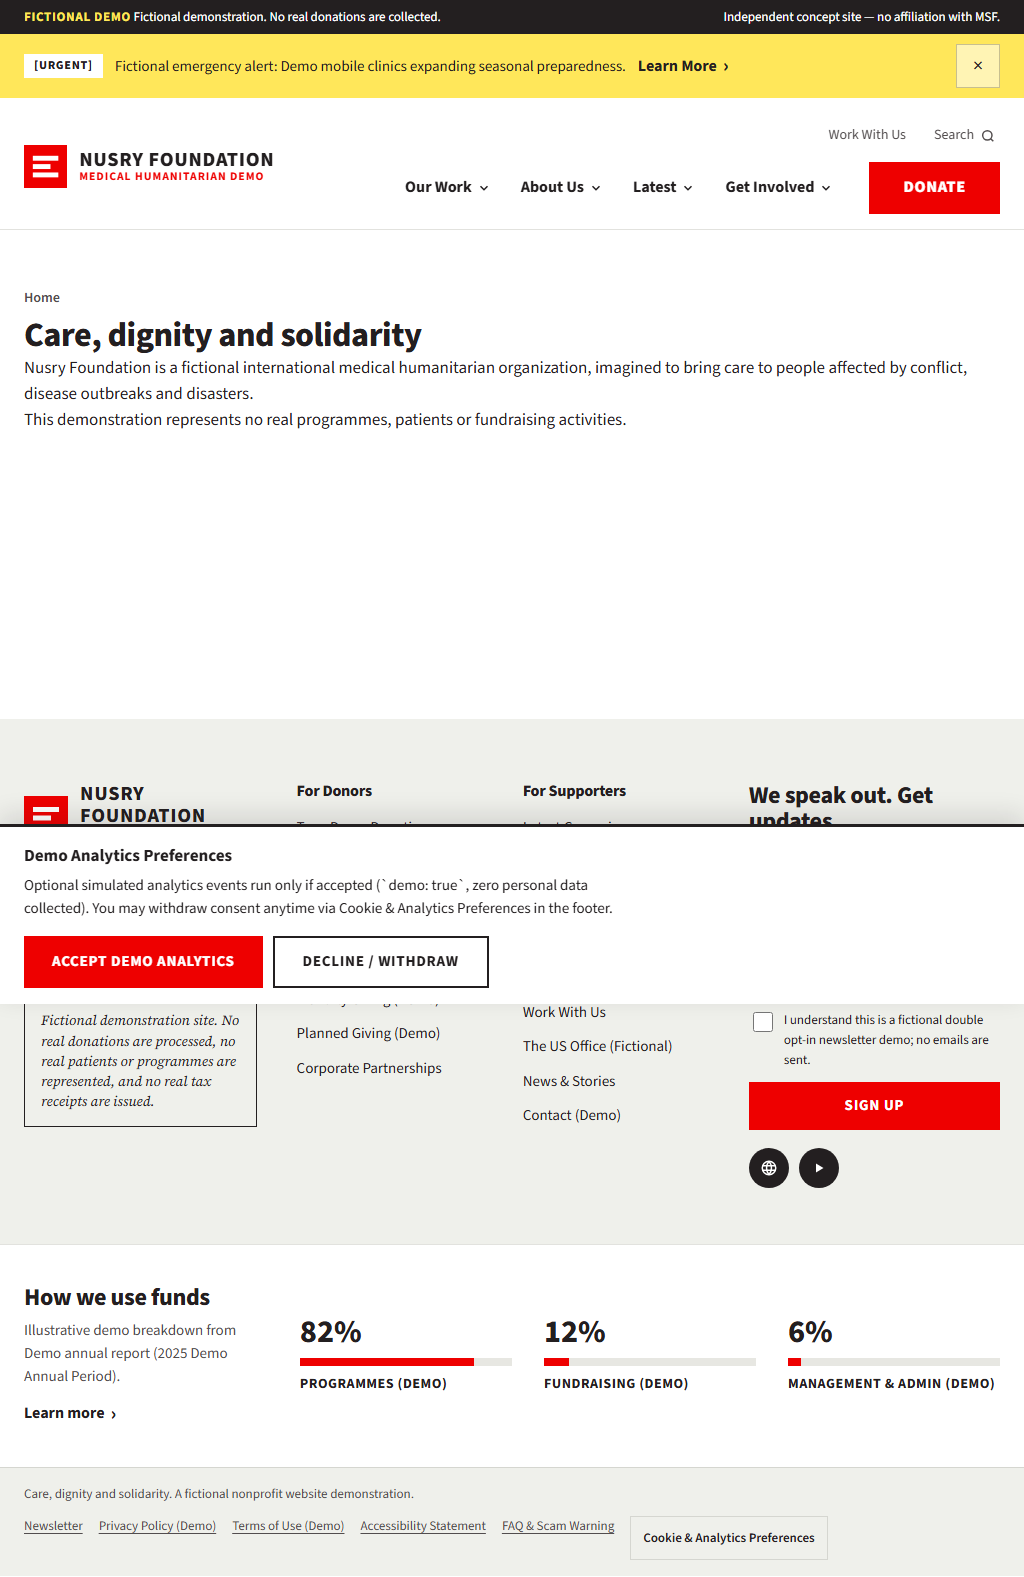
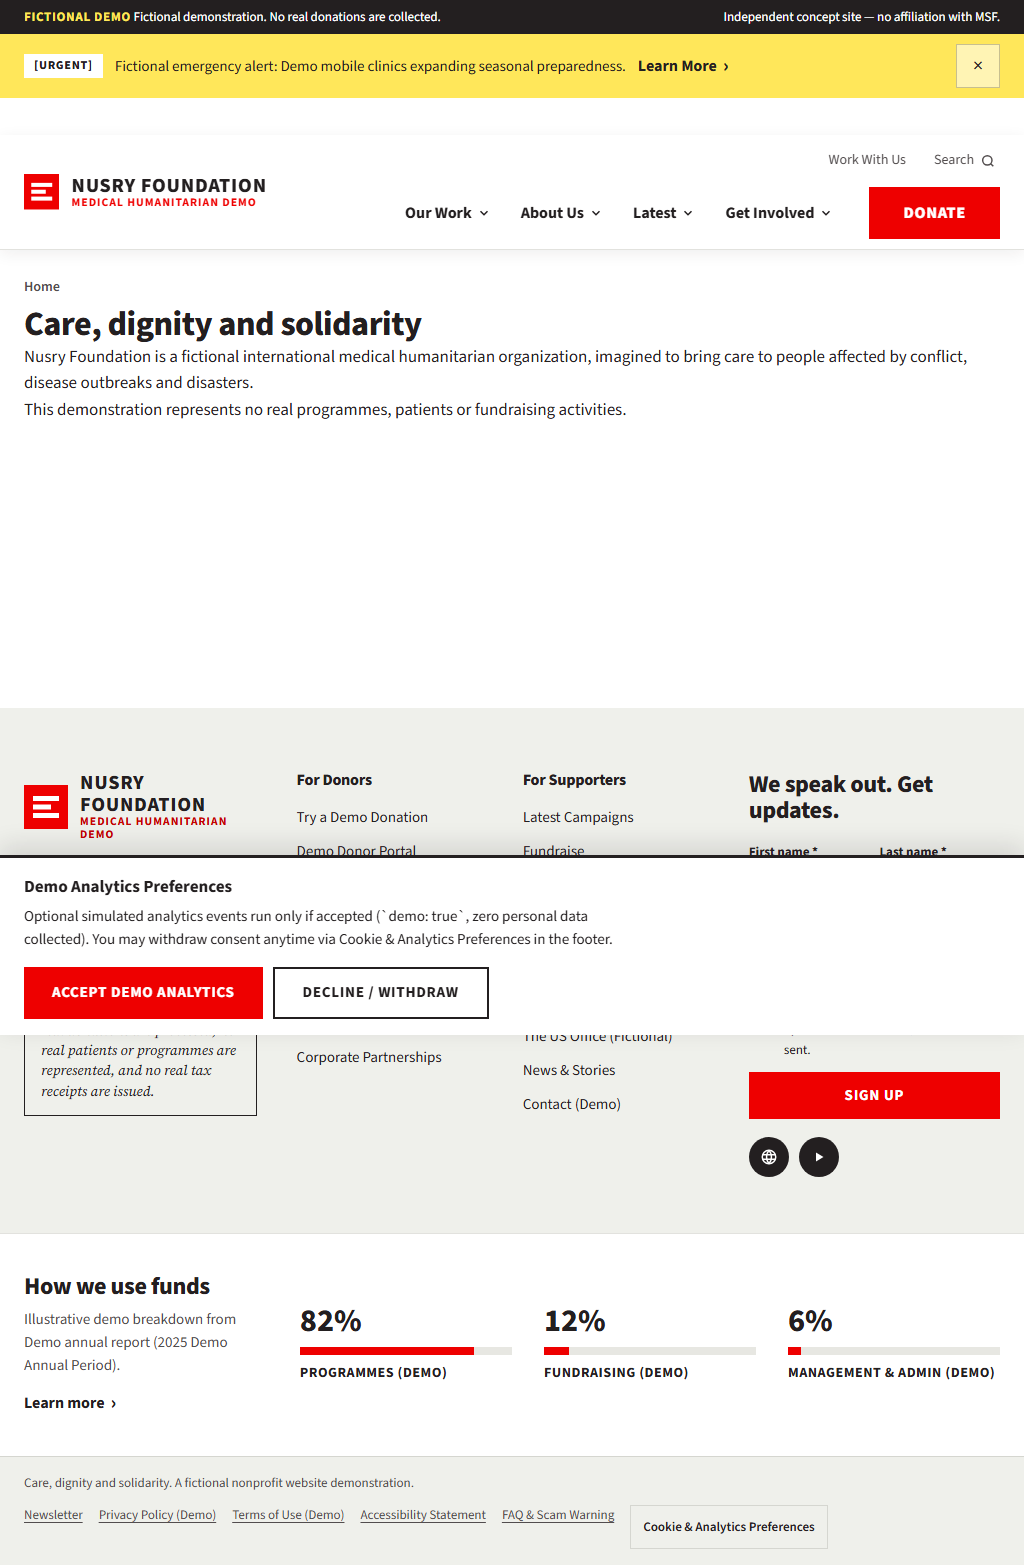
docs(phase-8): add editor guide, QA/bug template, launch checklist, print check and handoff summary

diff --git a/tests/e2e/hardening.spec.js b/tests/e2e/hardening.spec.js
@@ -119,3 +119,29 @@ test('320px reflow, 200% text resize, reduced motion and heading order pass acro
     });
   }
 });
+
+test('printed article view hides site chrome cleanly and retains article body', async ({ page }) => {
+  await page.goto('/stories/mobile-clinics-expand-maternal-care-across-valeria-republic');
+  await page.emulateMedia({ media: 'print' });
+
+  const printCheck = await page.evaluate(() => {
+    const header = document.querySelector('.site-header');
+    const footer = document.querySelector('.site-footer');
+    const consent = document.querySelector('.consent-banner');
+    const h1 = document.querySelector('h1');
+    const prose = document.querySelector('.prose-column, article');
+    return {
+      headerDisplay: header ? getComputedStyle(header).display : 'none',
+      footerDisplay: footer ? getComputedStyle(footer).display : 'none',
+      consentDisplay: consent ? getComputedStyle(consent).display : 'none',
+      h1Display: h1 ? getComputedStyle(h1).display : 'none',
+      hasBodyText: Boolean(prose && prose.textContent.trim().length > 40),
+    };
+  });
+
+  expect(printCheck.headerDisplay).toBe('none');
+  expect(printCheck.footerDisplay).toBe('none');
+  expect(printCheck.consentDisplay).toBe('none');
+  expect(printCheck.h1Display).not.toBe('none');
+  expect(printCheck.hasBodyText).toBe(true);
+});

diff --git a/web/themes/custom/nusry/src/styles/print.css b/web/themes/custom/nusry/src/styles/print.css
@@ -1,4 +1,5 @@
 @media print {
+
   .demo-notice,
   .urgent-banner,
   .site-header,
@@ -9,7 +10,8 @@
   .share-bar,
   .donate-prompt,
   .filter-bar,
-  .pagination {
+  .pagination,
+  .consent-banner {
     display: none !important;
   }
 

diff --git a/docs/phase-8-summary.md b/docs/phase-8-summary.md
@@ -1,0 +1,31 @@
+# Phase 8 Summary — Final Handoff, Verification Matrix & Readiness Review
+
+All 8 implementation phases of the fictional **Nusry Foundation** Drupal 11 demonstration are complete on branch `docs/phase-8-handoff`, with no live payment, email, or external hosting side effects.
+
+## 1. Documentation & Operational Deliverables
+- **Architecture & Content Model**: [architecture.md](file:///c:/Users/muhfe/Desktop/Nusry%20Foundation/docs/architecture.md), [content-model.md](file:///c:/Users/muhfe/Desktop/Nusry%20Foundation/docs/content-model.md), [phase-plan.md](file:///c:/Users/muhfe/Desktop/Nusry%20Foundation/docs/phase-plan.md)
+- **Design System & Asset Provenance**: [design-spec.md](file:///c:/Users/muhfe/Desktop/Nusry%20Foundation/docs/design-spec.md), [design-tokens.json](file:///c:/Users/muhfe/Desktop/Nusry%20Foundation/docs/design-tokens.json), [design-contract.md](file:///c:/Users/muhfe/Desktop/Nusry%20Foundation/docs/design-contract.md), [wireframes.md](file:///c:/Users/muhfe/Desktop/Nusry%20Foundation/docs/wireframes.md), [asset-register.md](file:///c:/Users/muhfe/Desktop/Nusry%20Foundation/docs/asset-register.md)
+- **Phase Summaries**: [phase-1-summary.md](file:///c:/Users/muhfe/Desktop/Nusry%20Foundation/docs/phase-1-summary.md) through [phase-7-summary.md](file:///c:/Users/muhfe/Desktop/Nusry%20Foundation/docs/phase-7-summary.md)
+- **Phase 8 Hand-off Pack**:
+  - [editor-guide.md](file:///c:/Users/muhfe/Desktop/Nusry%20Foundation/docs/editor-guide.md) (editorial roles, `Draft` -> `Needs review` -> `Scheduled` -> `Published`, stories/pages/alerts/campaigns, media accessibility rules)
+  - [security-and-ops.md](file:///c:/Users/muhfe/Desktop/Nusry%20Foundation/docs/security-and-ops.md) (security headers, Report-Only CSP, backup/restore rehearsal, deployment/rollback, availability monitoring, retention)
+  - [qa-checklist-and-bug-template.md](file:///c:/Users/muhfe/Desktop/Nusry%20Foundation/docs/qa-checklist-and-bug-template.md) & [.github/ISSUE_TEMPLATE/bug_report.md](file:///c:/Users/muhfe/Desktop/Nusry%20Foundation/.github/ISSUE_TEMPLATE/bug_report.md)
+  - [launch-checklist.md](file:///c:/Users/muhfe/Desktop/Nusry%20Foundation/docs/launch-checklist.md) (explicit authorization gates, demo purge, provider swap, 2FA/SSO, enforced CSP, CDN/Redis/MariaDB readiness)
+
+## 2. Final Automated Verification Matrix (Observed Results)
+| Suite / Check | Result | Measured Details |
+|---|---|---|
+| Vite Build & Asset Budgets (`npm run build`, `npm run check:assets`) | **Passed** | JS `3,387 B` gzip (`<=150 KB`), CSS `7,422 B` gzip (`<=60 KB`), WOFF2 `102,676 B` (`<=160 KB`), mobile hero `23,766 B` (`<=250 KB`) |
+| ESLint (`npm run lint`) | **Passed** | `0` errors |
+| Node Unit (`npm test`) | **Passed** | `1 / 1` passed (`assets.test.mjs`) |
+| PHPCS (`vendor/bin/phpcs`) | **Passed** | `Drupal` & `DrupalPractice` standards, `0` errors / `0` warnings |
+| Drupal Config Parity (`drush php:script scripts/verify-config.php`) | **Passed** | `Active configuration matches committed export.` |
+| PHPUnit (`vendor/bin/phpunit`) | **Passed** | `14 tests, 123 assertions` |
+| Backup & Restore (`scripts/rehearse-backup-restore.php`) | **Passed** | SHA-256 verified, `PRAGMA integrity_check = ok`, row counts validated |
+| Monitor & Alert Probe (`scripts/monitor-check.mjs`) | **Passed** | `6 / 6` endpoint checks + `alertSimulationTriggered: true` |
+| Local Load Benchmark (`scripts/load-baseline.mjs`) | **Passed** | Baseline `30` reqs (`0` errs, `p50: 144.9 ms`, `p95: 753.3 ms`); burst `64` reqs (`0` errs, `p50: 591.3 ms`, `p95: 620.9 ms`) |
+| Playwright E2E + axe (`npm run test:e2e`) | **Passed** | **`41 / 41`** tests passed across `320px`, `375px`, `768px`, `1024px`, `1440px`, `200%` text resize, reduced motion, `@media print` article check (`consent-banner` hidden), donation failure/cancel/retry, newsletter opt-in, portal ownership `403`, and consent gating (`ttfbMs: 72`, `fcpMs: 260`, `lcpMs: 260`, `cls: 0.0184`, `transferBytes: 367,103`) |
+
+## 3. Manual / Environment Scope Boundaries
+- No deployment or external service activation has been performed; demo banners, `MockDonationGateway`, `MockNewsletterGateway`, and `X-Robots-Tag: noindex, nofollow` remain enabled intentionally.
+- Multi-browser real device/Firefox/WebKit QA, `k6` staging surge load (`tests/load/k6-baseline-and-surge.js`), CDN HTTP/2/3 & TLS verification, MariaDB backup schedules, and 2FA/SSO enforcement remain pre-launch tasks in [launch-checklist.md](file:///c:/Users/muhfe/Desktop/Nusry%20Foundation/docs/launch-checklist.md).

diff --git a/docs/qa-checklist-and-bug-template.md b/docs/qa-checklist-and-bug-template.md
@@ -1,0 +1,50 @@
+# Manual QA Checklist & Bug Report Template
+
+Run manual verification alongside CI automated suites before any milestone sign-off. Include failure paths, authenticated isolation checks, consent toggles, and print-stylesheet article checks — never only happy-path screenshots.
+
+## 1. Manual QA Checklist
+
+### Public & Editorial Shell
+- [ ] Homepage (`/`) loads with persistent fictional demo banner, single `<h1>`, urgent alert dismissible across reload via `localStorage`, sticky header compaction, mega-menu keyboard open/Escape/focus restore.
+- [ ] Mobile drawer (`375px` and `320px`) opens, traps focus, closes cleanly on Escape/backdrop, and keeps visible top-right `Donate` CTA.
+- [ ] Search modal opens, focuses input, filters `/search?q=...` safely with XSS escaping, and Search API excludes drafts/archived content and `nusry_contact_submissions` / `nusry_newsletter_subscriptions`.
+- [ ] Story article (`/stories/mobile-clinics-expand-maternal-care-across-valeria-republic`) Print Preview (`@media print` / browser Print dialog) hides header/nav/footer/consent banner/share/donate prompts while preserving readable headline, body, and printed link URLs.
+
+### Donations, Failure Paths & Receipts (`/donate`, `/donate/receipt/{ref}`)
+- [ ] Invalid amount (`< $1.00`, `> $100,000`), unsupported currency, or missing tribute honoree shows inline accessible validation error.
+- [ ] **Failure path**: Clicking **Simulate Payment Failure** displays a non-charged failure notice and keeps form values for retry; retrying **Complete Demo Donation** succeeds cleanly.
+- [ ] **Cancellation path**: Clicking **Cancel Demo Checkout** preserves form state with cancellation notice without requiring field validation.
+- [ ] Sample receipt renders `"Demo complete—no charge made."` and `"Sample receipt—not valid for tax purposes."`, allows `.txt` download with `Cache-Control: private, no-store`, returns `403` in a separate incognito session, and rejects `?status=completed` forgery on unknown references.
+
+### Newsletter, Contact & Donor Portal
+- [ ] Footer/homepage/standalone (`/newsletter`) double opt-in creates pending state + demo mail-catcher link -> clicking link confirms once -> refreshing same confirmation link rejects token reuse -> unsubscribe withdraws consent.
+- [ ] Optional SMS opt-in checkbox acts independently and requires a valid phone number only when checked.
+- [ ] `/contact` blocks invalid/short messages and honeypot triggers, stores valid inquiry outside public Search/Views, and logs zero PII.
+- [ ] Anonymous `/portal` returns `403`; signed-in `demo-donor` sees only own gifts, can adjust recurring plan (`/portal/recurring/{ref}/edit`) and simulated payment method (`/portal/payment-method` with zero card fields), and receives `403` on `/donor-services`.
+- [ ] Signed-in `editor` / `contributor` receive `403` on `/portal` and `/donor-services`; `demo-donor-services` can filter `/donor-services` and export formula-safe CSV (`/donor-services/export`).
+
+### Consent & Accessibility
+- [ ] Before clicking **Accept demo analytics**, `window.dataLayer` stays empty; after accept, `{ event, demo: true }` events fire without PII; clicking **Cookie & Analytics Preferences** -> **Decline / Withdraw** halts further tracking.
+- [ ] Keyboard Tab order, focus indicators, `320px` reflow, `200%` text scaling, and `prefers-reduced-motion: reduce` work cleanly without horizontal overflow.
+
+---
+
+## 2. Bug Report Template
+
+Copy this template into [.github/ISSUE_TEMPLATE/bug_report.md](../.github/ISSUE_TEMPLATE/bug_report.md) when logging defects:
+
+```markdown
+- **Route / URL**: (e.g. `/donate`, `/portal/gifts/DEMO-SEED-ONCE-001/receipt`)
+- **Build / Commit SHA / Environment**: (e.g. `main @ 37be5f6`, local SQLite vs CI MariaDB/Redis)
+- **Viewport / Browser / Device**: (e.g. `375x812`, Chromium 1255 / Firefox / Safari iOS 18)
+- **Severity**: Critical | High | Medium | Low
+- **Steps to Reproduce**:
+  1.
+  2.
+  3.
+- **Expected Result**:
+- **Actual Result**:
+- **Accessibility Impact**: (e.g. missing focus trap, contrast failure, screen-reader announcement missing, 320px overflow)
+- **Evidence (Screenshot / Playwright Trace)**:
+- **Privacy-Safe Logs**: (Drupal watchdog ID or browser console error; NEVER include emails, tokens, passwords, or PII)
+```

diff --git a/docs/editor-guide.md b/docs/editor-guide.md
@@ -1,0 +1,35 @@
+# Editor & Staff Publishing Guide (Demo)
+
+This guide covers editorial workflows for the fictional **Nusry Foundation** Drupal 11 site. Contributors and editors work under least-privilege permissions (`config/sync/user.role.*.yml`) and cannot access donor records (`/donor-services`) or payment/module configuration.
+
+## 1. Roles & Workflow States
+- **`contributor`**: Creates and edits own content and media in `Draft`, then moves items to `Needs review` (`submit_review`). Cannot publish directly.
+- **`editor`**: Reviews submitted drafts, edits across content types, manages URL aliases, and transitions content to `Approved for scheduling` (`approve_schedule`), `Published` (`publish`), or `Archived` (`archive`).
+- **Moderation states**: `Draft` -> `Needs review` -> `Approved for scheduling` -> `Published` -> `Archived`. Scheduled transitions only publish the approved revision at the configured date/time.
+
+## 2. Publishing Content Types
+### Stories (`story`) & Field Dispatches
+1. Sign in via `/user/login` with an `editor` or `contributor` account.
+2. Open `/node/add/story`. Fill in Title, Summary (`field_summary`), Story kind (`field_story_kind`), Category, Country/Medical Issue tags, Reading time, and a Hero image media entity (`field_hero`).
+3. Compose structured sections via constrained Paragraphs (`field_components`: rich text, quotes, video with transcript/captions, sensitive image with warning toggle, statistics, downloads, etc.).
+4. Keep `field_demo` enabled so all preview copy stays visibly marked as fictional demonstration data.
+
+### Flexible Pages (`flexible_page`)
+- Used for `/what-we-do`, `/who-we-are`, `/ways-to-give/*`, `/contact`, and legal pages (`/privacy`, `/terms`, `/accessibility`, `/faq`).
+- Pages without a Hero Paragraph render a clean editorial header with `<h1>` automatically; pages with a Hero Paragraph suppress the duplicate title block (`nusry.theme`).
+
+### Urgent Alert Banner (`nusry_core.settings`)
+1. Managed via editorial configuration (`config/sync/nusry_core.settings.yml` or authorized admin form).
+2. Fields: `urgent_alert.enabled`, `urgent_alert.version` (bump e.g. `v2` when issuing a new notice so prior dismissals reset), `urgent_alert.text`, `urgent_alert.link_url`, and `urgent_alert.link_label`.
+
+### Demo Campaigns (`campaign`)
+- Set `field_campaign_id` (allowlisted ID used by `/donate?campaign=...`), `field_campaign_status` (`active` or closed), `field_frequency` (`monthly` or `once`), and integer minor-unit presets (`field_amounts`, e.g. `3500` for `$35`).
+- Do **not** present synthetic campaigns as active public fundraising or a registered charity.
+
+## 3. Media & Accessibility Rules
+- **Images**: Required `alt` text (`field_media_image`), Credit, License/permission, Provenance notes, and Source URL. Mark graphic or distressing illustrations with `field_sensitive = 1` so visitors must opt to reveal them.
+- **Documents (PDF)**: Provide an HTML accessible text summary (`field_accessible_text`) alongside the downloadable file.
+- **Remote Video**: Verify captions (`field_captions_confirmed = 1`) and include a full transcript (`field_accessible_text`). Click-to-load consent gates third-party playback.
+
+## 4. Guardrails
+- Never enter real patient names, PII, real tax registration numbers, or real bank/payment instructions into any node, Paragraph, or configuration field.

diff --git a/docs/launch-checklist.md b/docs/launch-checklist.md
@@ -1,0 +1,24 @@
+# Pre-Production Launch & Cutover Checklist
+
+**Important**: This repository currently implements a **fictional demonstration** (`Nusry Foundation`). Never convert demo mode to live operation, disable `noindex`, or deploy externally without explicit stakeholder authorization and completed items below.
+
+## 1. Demo Guardrails & Provider Replacement
+- [ ] Obtain explicit written launch authorization before provisioning production hosting or DNS.
+- [ ] Purge all synthetic demo entities (`demo-editor`, `demo-donor`, `DEMO-*` gifts, illustrative reports/countries, `"Fictional Demo"` notices) and seed real approved legal copy/org entity details.
+- [ ] Replace `MockDonationGateway` with a hosted payment provider integration (`DonationGatewayInterface`) supporting verified cryptographic webhooks, server-side idempotency, and zero raw card storage (PCI SAQ-A boundary).
+- [ ] Replace `MockNewsletterGateway` with an authenticated transactional email/marketing API and optional verified SMS provider (`NewsletterGatewayInterface`), removing local mail-catcher links from HTTP responses.
+- [ ] Verify real charitable registration, privacy policy, terms of use, and jurisdiction-specific tax-receipt wording with legal counsel.
+
+## 2. Security & Identity Hardening
+- [ ] Configure TLS/HTTPS termination at CDN/WAF and set secure cookie flags (`SameSite=Lax`, `HttpOnly`, `Secure`).
+- [ ] Enforce 2FA/SSO for all `editor`, `contributor`, `donor_services`, and `administrator` accounts; disable passwordless demo ULI patterns outside local dev.
+- [ ] Review `Content-Security-Policy-Report-Only` violation telemetry in staging, remove any temporary `'unsafe-inline'` if eliminated, and promote header to enforced `Content-Security-Policy`.
+- [ ] Confirm `hash_salt` and DB/API secrets live exclusively in host environment secret storage (never in Git or `config/sync`).
+
+## 3. Infrastructure, Caching, Monitoring & Backups
+- [ ] Provision MariaDB 10.11+, Redis 7+, CDN edge caching honoring `Cache-Control` / Drupal cache tags/contexts, and scheduled Drupal cron (`drush cron`).
+- [ ] Remove `NoindexResponseSubscriber`'s global `X-Robots-Tag: noindex, nofollow` ONLY on public marketing pages after legal launch sign-off, while keeping `noindex, nofollow` and `private, no-store` on `/portal*`, `/donate/receipt/*`, `/donor-services*`, `/newsletter/confirm/*`, and `/user/*`.
+- [ ] Run staging k6 baseline + `50x` surge test (`tests/load/k6-baseline-and-surge.js`) against CDN + PHP-FPM + Redis + MariaDB; verify p95 latency, `<1%` errors, and origin cache-hit ratio.
+- [ ] Enable automated daily encrypted MariaDB + `private/` backups and verify non-prod restore drill (`RPO`/`RTO` verified).
+- [ ] Configure Sentry/redacted log aggregation and external uptime alerts for `/`, `/search`, `/donate`, and cron health.
+- [ ] Confirm data-retention cron cleanup (unconfirmed opt-in tokens 7d, contact submissions 90d, redacted logs 30d) and documented DSAR identity verification + backup-expiry deletion workflow.

diff --git a/README.md b/README.md
@@ -71,7 +71,8 @@ GitHub Actions installs from committed configuration against MariaDB, checks Red
 - [Design specification](docs/design-spec.md), [design tokens](docs/design-tokens.json), [design direction](DESIGN.md)
 - [Architecture](docs/architecture.md), [content model](docs/content-model.md), [wireframes](docs/wireframes.md)
 - [Design decisions](docs/design-contract.md), [handoff](docs/implementation-handoff.md), [delivery phases](docs/phase-plan.md)
-- [Phase 1 review](docs/phase-1-summary.md), [Phase 6 summary](docs/phase-6-summary.md), [Phase 7 summary](docs/phase-7-summary.md), [Security & ops runbook](docs/security-and-ops.md), [tooling guidance](docs/tooling.md)
+- [Phase 1 review](docs/phase-1-summary.md), [Phase 6 summary](docs/phase-6-summary.md), [Phase 7 summary](docs/phase-7-summary.md), [Phase 8 final handoff](docs/phase-8-summary.md)
+- [Editor guide](docs/editor-guide.md), [Security & ops runbook](docs/security-and-ops.md), [QA checklist & bug template](docs/qa-checklist-and-bug-template.md), [Launch checklist](docs/launch-checklist.md), [Tooling guidance](docs/tooling.md)
 
 Interactive Phase 6 demo flows are available on `/donate` (mock checkout & sample receipts), `/newsletter` (double opt-in + optional SMS consent), `/contact`, `/portal` (authenticated `demo-donor` portal), and `/donor-services` (authorized `demo-donor-services` lookup & formula-safe CSV export).
 

diff --git a/.github/ISSUE_TEMPLATE/bug_report.md b/.github/ISSUE_TEMPLATE/bug_report.md
@@ -1,0 +1,28 @@
+---
+name: Bug report
+about: Report a functional, accessibility, security, or visual issue in the Nusry Foundation demo.
+title: '[Bug]: '
+labels: bug
+---
+
+## Environment
+- **Route / URL**:
+- **Build / Commit SHA / Environment**:
+- **Viewport / Browser / Device**:
+- **Severity**: Critical / High / Medium / Low
+
+## Reproduction Steps
+1.
+2.
+3.
+
+## Expected Result
+
+## Actual Result
+
+## Accessibility Impact
+- (Keyboard navigation, screen reader status, focus order, `320px` reflow, contrast, reduced motion)
+
+## Evidence
+- **Screenshot / Playwright Trace**:
+- **Privacy-Safe Logs** *(strip any emails, tokens, or personal data)*:
